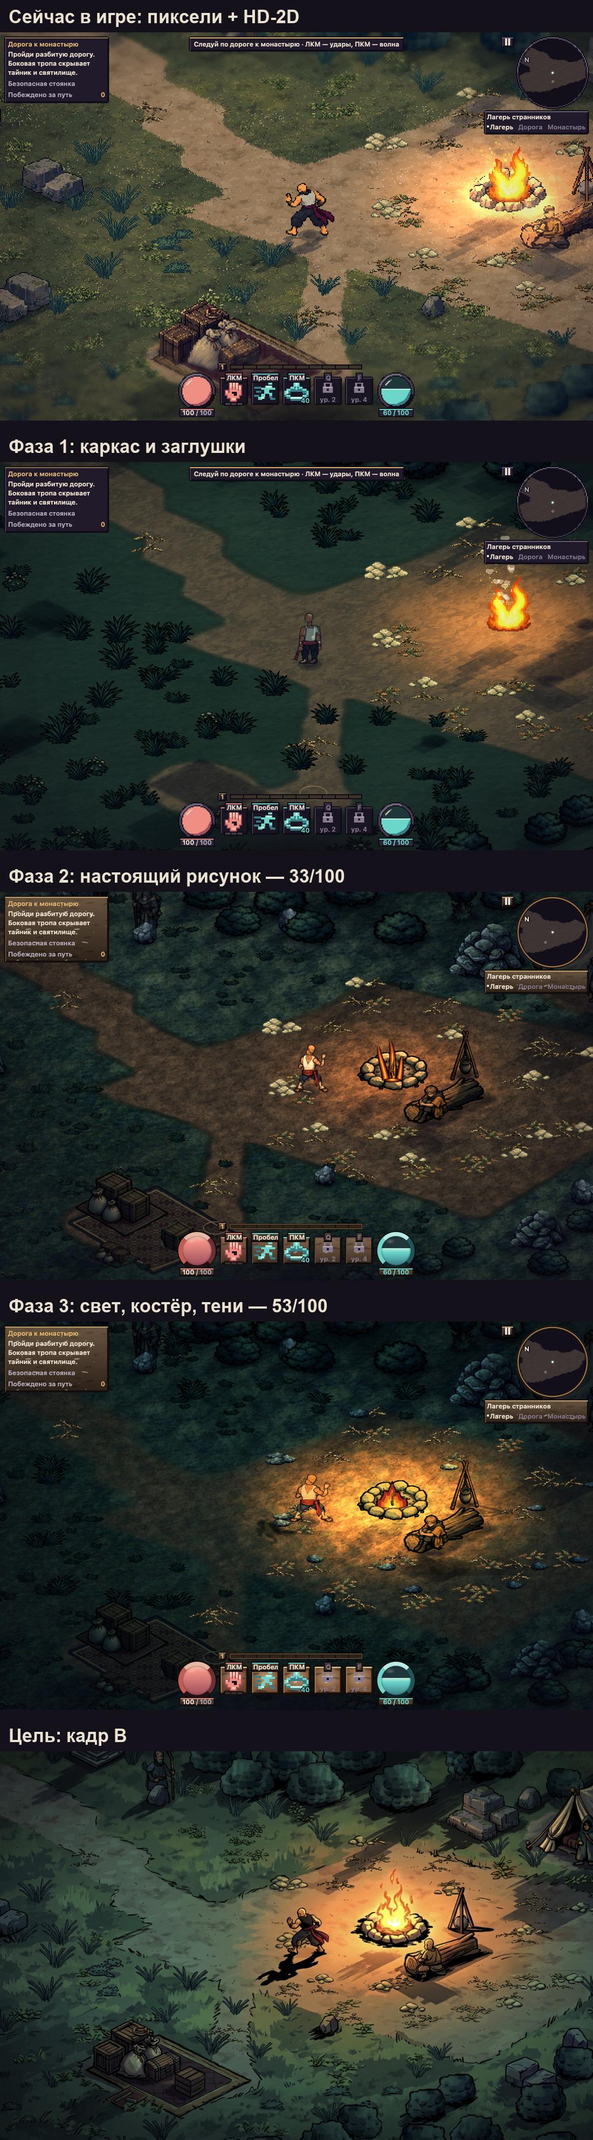
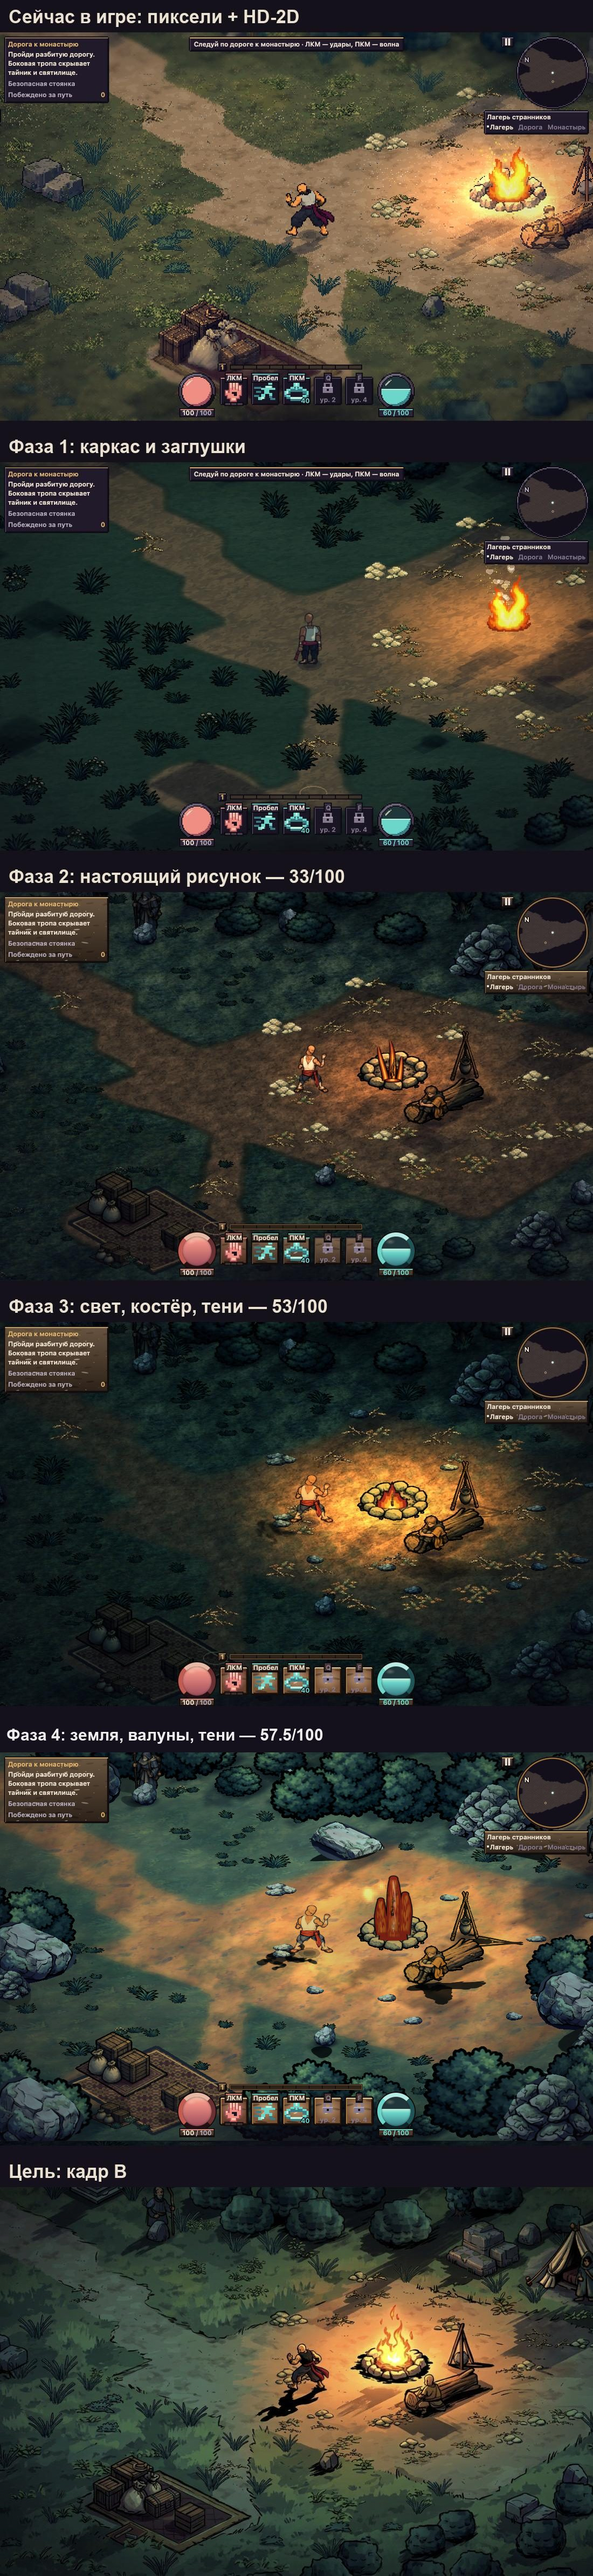
Add painted pilot phase 4 boards and judge round 2

diff --git a/docs/painted-pilot/README.md b/docs/painted-pilot/README.md
@@ -1,7 +1,7 @@
 # Пилот «рисованное 2D»
 
 ## Прогресс одной лентой
-Сверху вниз: игра сейчас → фаза 1 → фаза 2 → фаза 3 → цель. Фазы 2 и 3 сняты в одном кадре, подобранном под цель. Верхние два кадра — в обычной камере игры. Фаза 4 идёт.
+Сверху вниз: игра сейчас → фаза 1 → фаза 2 → фаза 3 → фаза 4 → цель. Фазы 2–4 сняты в одном кадре, подобранном под цель. Верхние два кадра — в обычной камере игры.
 
 ![Прогресс](progress.jpg)
 
@@ -14,6 +14,25 @@
 |---|---|---:|
 | 0 | фаза 2 (`ff1714f0`) | **33 / 100** |
 | 1 | фаза 3 (`f3ec0b68`) | **53 / 100** (+20) |
+| 2 | фаза 4 (`f44daeaf`) | **57.5 / 100** (+4.5) |
+
+Раунд 2: плотность 4→6, тени 4→5, цвет 6→7, земля 5→6. Хуже стали костёр 4→3 и реквизит 7→6. Пламя читается как три коричневых столба без светлой сердцевины. Новые валуны слишком крупные и спорят с костром. Кадр в целом светлее цели, тёплое пятно тянется вдоль дороги. Для решения о переходе нужно ≥ 70.
+
+![Оценка, раунд 2](judge-r2.jpg)
+
+![Раунд 1 и раунд 2 рядом](judge-r2-delta.jpg)
+
+Пламя фазы 4, 10 кадров:
+
+![Пламя фазы 4](p4-fire.jpg)
+
+Сборка фазы 4: цель | фаза 3 | фаза 4 в одном кадре.
+
+![Сборка фазы 4](p4-integrate.jpg)
+
+Замер фазы 4: телефонный профиль CPU×4, бой с тремя гончими — 120 FPS, кадр p95 10.0 мс, 0 кадров дольше 33 мс. Память рисованного арта 43.3 MiB (+5.5 MiB, атлас эффектов). Стенд — Mac; GPU телефона не проверен.
+
+Раунд 1:
 
 Раунд 1: свет 3→7, тени 1→4, персонажи 3→6, костёр 2→4. Слабые места: тени, костёр и плотность — по 4/10. Край кадра стал слишком тёмным и синим. Пламя низкое и плоское. Крупных кустов по краям ещё нет.
 
